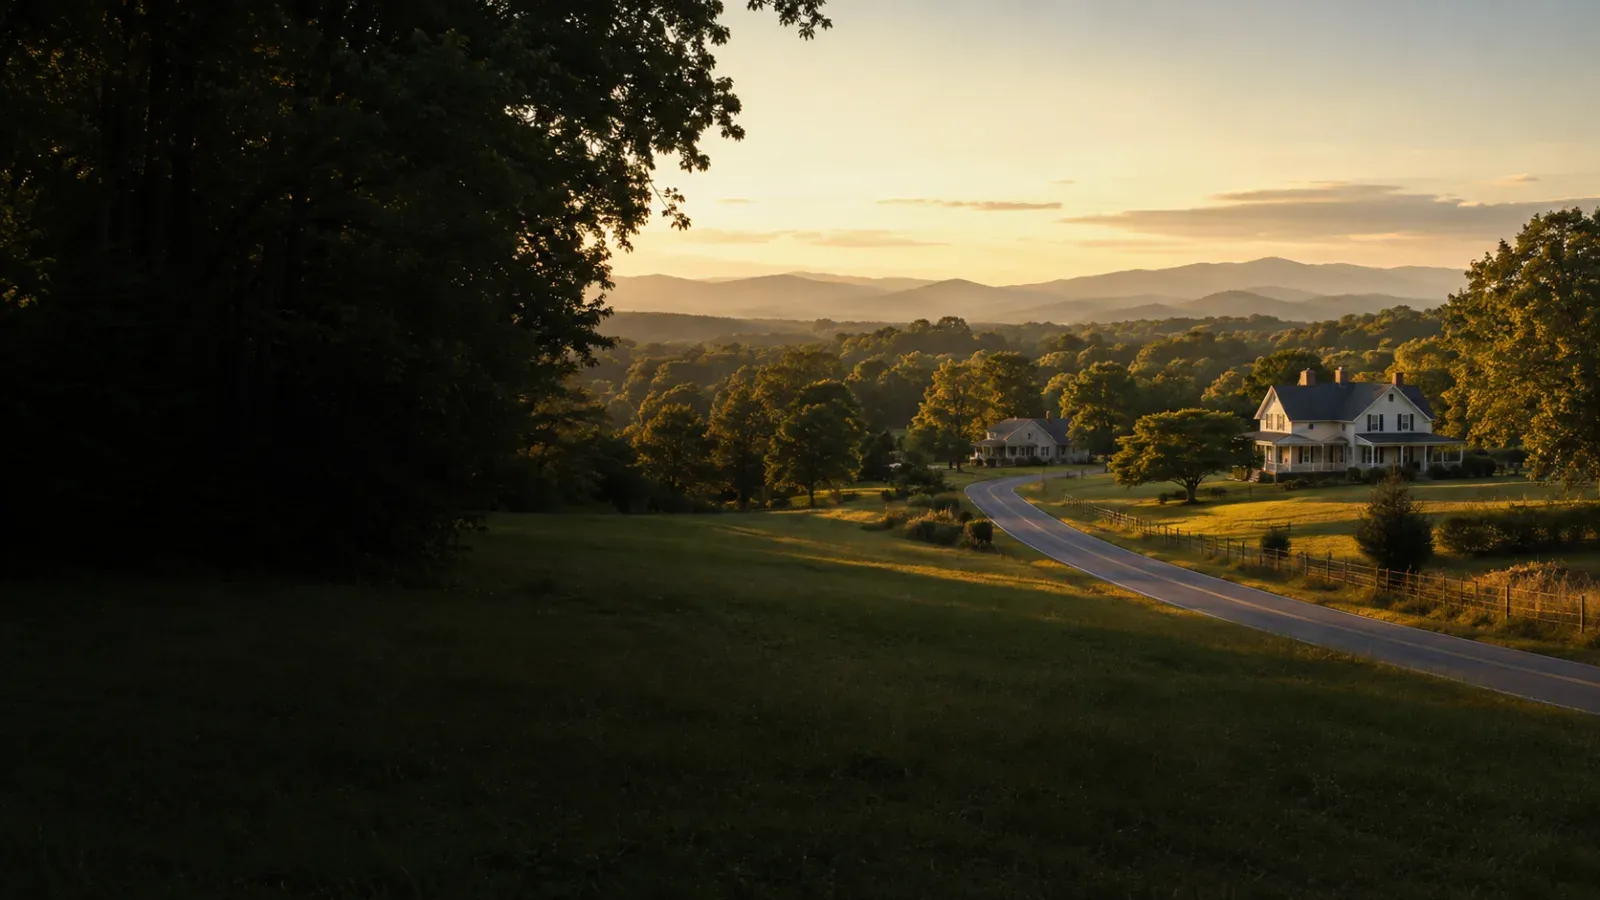
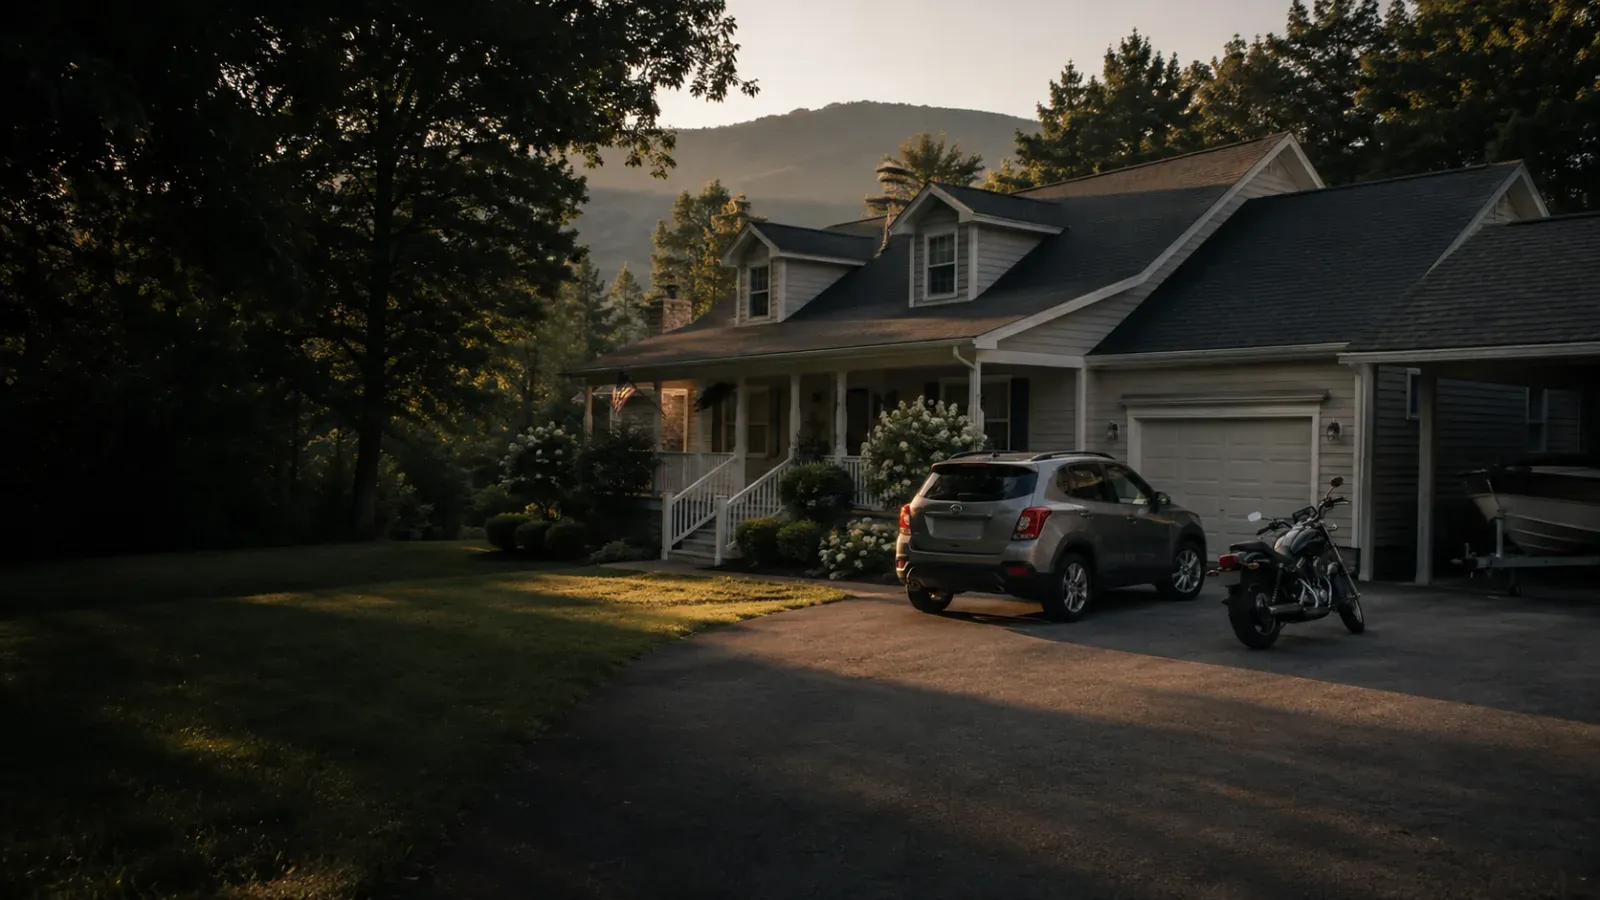
Carriers index: new hero that earns the headline + even scrim
The landscape hero didn't support "9 Top Carriers. One Agent. Your Best
Rate." - it was a passive scene that said nothing about breadth. Replaced
with Bill's new image: one NC household with an SUV, a motorcycle, and a
boat under the carport, which visually explains why you'd need nine
different carriers.

Also fixed the scrim for this page specifically. The carrier pages are
left-aligned so they use a left-heavy gradient; this page's headline is
CENTRED and ~1200px wide, so a side gradient left a visible seam and
washed out half the photo behind the text. Switched to an even +
bottom-weighted scrim: full scene stays readable, text contrast holds
across the whole width.

diff --git a/auto-center/carriers/index.html b/auto-center/carriers/index.html
@@ -73,10 +73,12 @@
             border-bottom: 1px solid rgba(255,255,255,0.5);
         }
         .bg-vivid-hero {
+            /* Centred headline on this page, so the scrim is EVEN + bottom-weighted
+               rather than left-heavy (a side gradient leaves a visible seam and
+               half the photo washed out behind centred text). */
             background:
-                radial-gradient(circle at 16% 22%, rgba(0,63,135,.30), transparent 38%),
-                linear-gradient(90deg, rgba(8,25,45,.95) 0%, rgba(10,34,60,.88) 34%, rgba(10,34,60,.50) 64%, rgba(10,34,60,.14) 100%),
-                linear-gradient(0deg, rgba(8,25,45,.58), rgba(8,25,45,0) 48%),
+                linear-gradient(90deg, rgba(10,34,60,.34) 0%, rgba(10,34,60,.18) 50%, rgba(10,34,60,.34) 100%),
+                linear-gradient(180deg, rgba(8,25,45,.72) 0%, rgba(8,25,45,.62) 35%, rgba(8,25,45,.68) 70%, rgba(8,25,45,.88) 100%),
                 url('assets/hero-carriers-index.webp') center/cover no-repeat;
         }
         @media (max-width: 767px) {
